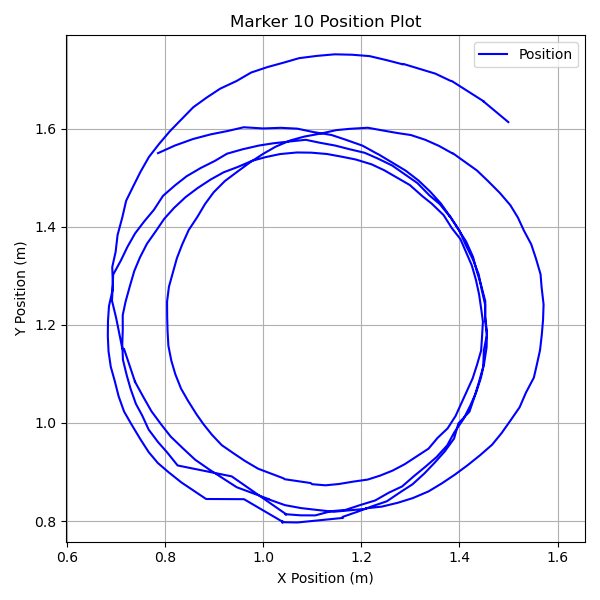
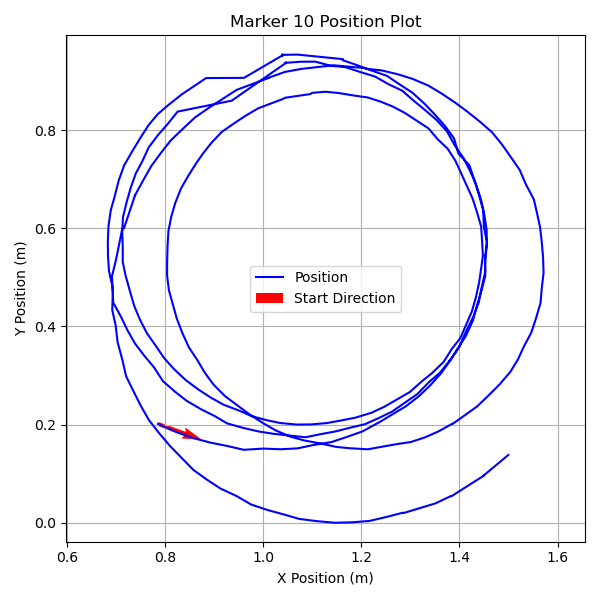
repair data now updates y axis, added arrow to circle plot

diff --git a/Python/vision/vision_data_plot.py b/Python/vision/vision_data_plot.py
@@ -39,6 +39,7 @@ def plot_marker_data(csv_path, output_plot_path):
     # Save
     fig_pos_time.tight_layout()
     fig_pos_time.savefig(output_plot_path.replace('.png', '_position.png'))
+    plt.close(fig_pos_time)
     
     # Create speed plot
     fig_speed, axes = plt.subplots(2, 1, figsize=(10, 4))
@@ -64,17 +65,26 @@ def plot_marker_data(csv_path, output_plot_path):
     # Save
     fig_speed.tight_layout()
     fig_speed.savefig(output_plot_path.replace('.png', '_speed.png'))
+    plt.close(fig_pos_time)
+
     
     # Plot positions
     plt.figure(figsize=(6, 6))  # Set figure size to ensure a square plot
     plt.plot(x_positions, y_positions, label='Position', color='blue')
+    
+    # Add a vector arrow to indicate the starting direction and location using the first few points
+    num_points = 5  # Number of points to calculate the average direction
+    start_x = x_positions.iloc[0]
+    start_y = y_positions.iloc[0]
+    avg_dx = x_positions.iloc[1:num_points].mean() - start_x
+    avg_dy = y_positions.iloc[1:num_points].mean() - start_y
+    plt.quiver(start_x, start_y, avg_dx, avg_dy, angles='xy', scale_units='xy', scale=1, color='red', label='Start Direction')
     plt.xlabel("X Position (m)")
     plt.ylabel("Y Position (m)")
     plt.title("Marker 10 Position Plot")
     plt.legend()
     plt.grid()
     plt.axis('equal')
-    
     # Plot positions with moving average filter
     #moving_avg_x_positions = x_positions.rolling(window=window_size).mean()
     #moving_avg_y_positions = y_positions.rolling(window=window_size).mean()
@@ -84,6 +94,7 @@ def plot_marker_data(csv_path, output_plot_path):
     # Save plot
     plt.tight_layout()
     plt.savefig(output_plot_path.replace('.png', '_trajectory.png'))
+    plt.close()  
     print(f"Plots saved to {os.path.dirname(output_plot_path)}")
 
 if __name__ == "__main__":

diff --git a/Python/vision/repair_data.py b/Python/vision/repair_data.py
@@ -6,6 +6,9 @@ def detect_spikes_and_repair(csv_path, output_nan_path, output_interpolated_path
     # Load data
     df = pd.read_csv(csv_path)
 
+    # Flip Y-axis
+    df["Y Position (m)"] = df["Y Position (m)"].max() - df["Y Position (m)"]
+
     # Columns to check for spikes
     columns_to_check = ["X Position (m)", "Y Position (m)", "Speed (m/s)", "Distance from Circle (m)"]
 
@@ -30,6 +33,7 @@ def detect_spikes_and_repair(csv_path, output_nan_path, output_interpolated_path
 
     print(f"Saved NaN version to: {output_nan_path}")
     print(f"Saved interpolated version to: {output_interpolated_path}")
+
 
 if __name__ == "__main__":
     input_folder = os.path.join(os.path.dirname(__file__), 'output_files')
